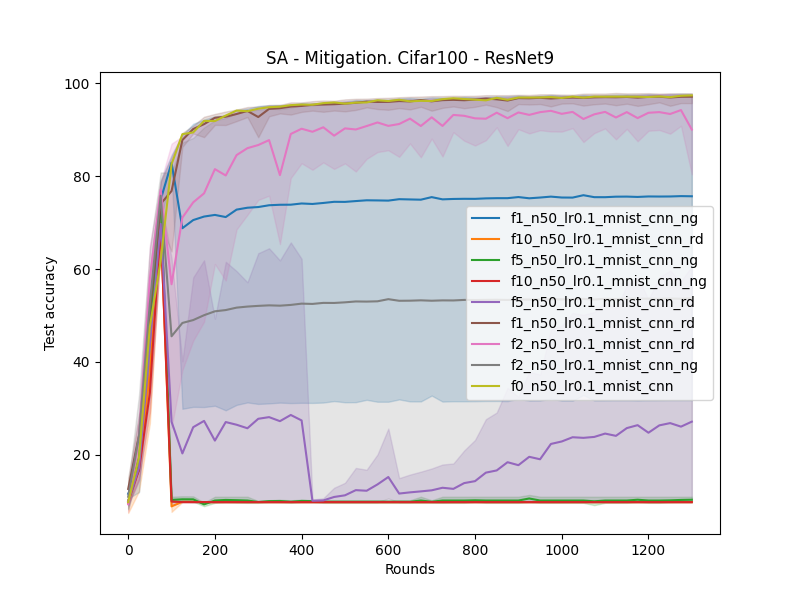
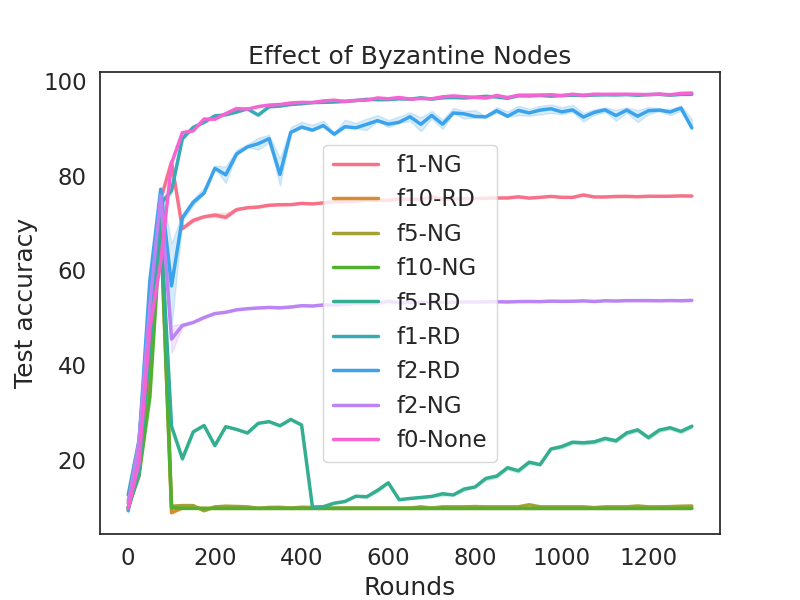
Update plot exp15

diff --git a/exp15_mnist_byz_effect.py b/exp15_mnist_byz_effect.py
@@ -194,9 +194,27 @@ if __name__ == '__main__':
         name = out[1]['name']
         local_df = pd.DataFrame(
             out[0][0], columns=['round', 'accuracy', 'loss'])
-        local_df['name'] = f"{name.split('-')[-1]}"
-        dfs.append(local_df)
+        # local_df['name'] = f"{name.split('-')[-1]}"
+        parts = name.split('-')[-1].split('_')
+        f = int(parts[0][1:])
+        byz_type = 'None'
+        if f:
+            byz_type = parts[-1].upper()
+        # print(name, parts, " :: ", byz_type)
+        local_df['f'] = f
+        local_df['byz_type'] = byz_type
+        local_df['name'] = '-'.join([f'f{f}', byz_type])
+        if f:
+            dfs.append(local_df)
+        else:
+            for f in [1,2,5,10]:
+                local_df_update = local_df.copy()
+                local_df_update['f'] = f
+                dfs.append(local_df_update)
+            # local_df = local_df.copy()
+            # local_df['']
     server_df = pd.concat(dfs, ignore_index=True)
+    server_df = server_df[server_df['f'].isin([1,2, 5,10])]
 
     dfs_server_age = []
     for out in outputs2:
@@ -206,16 +224,30 @@ if __name__ == '__main__':
         local_df['name'] = f"{name.split('-')[-1]}"
         dfs_server_age.append(local_df)
     model_age_df = pd.concat(dfs_server_age, ignore_index=True)
-
+    sns.set_theme(style="white", palette="Dark2", font_scale=1.5, rc={"lines.linewidth": 2.5}) # type: ignore
     graph_file = graphs_path / f'{exp_name}.png'
     print(f'Generating plot: {graph_file}')
     # Visualize data
     fig = plt.figure(figsize=(8, 6))
-    g = sns.lineplot(data=server_df, x='round', y='accuracy', hue='name')
-    plt.title('SA - Mitigation. Cifar100 - ResNet9')
+    g = sns.lineplot(data=server_df, x='round', y='accuracy', hue='name',errorbar=('ci', 25))
+    plt.title('Effect of Byzantine Nodes')
     plt.xlabel('Rounds')
     plt.ylabel('Test accuracy')
     g.legend_.set_title(None)
+    plt.savefig(graph_file)
+    plt.close(fig)
+
+    graph_file = graphs_path / f'{exp_name}_splitted.png'
+    print(f'Generating plot: {graph_file}')
+    # Visualize data
+    fig = plt.figure(figsize=(8, 6))
+    g = sns.relplot(data=server_df, x='round', y='accuracy', hue='byz_type', col='f', kind='line', errorbar=('ci', 25))
+    g.set_axis_labels("Rounds", "Accuracy").set_titles("F = {col_name}").tight_layout(w_pad=0)
+    g.legend.set_title('Attack')
+    g.fig.subplots_adjust(top=0.8) # adjust the Figure in g
+    g.fig.suptitle(f'Effects of byzantine nodes. MNIST, 50 nodes, lr=0.1')
+    plt.xlabel('Rounds')
+    plt.ylabel('Test accuracy')
     plt.savefig(graph_file)
     plt.close(fig)
 
